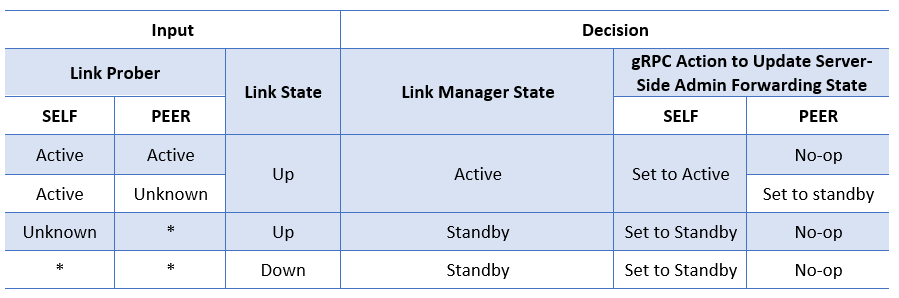
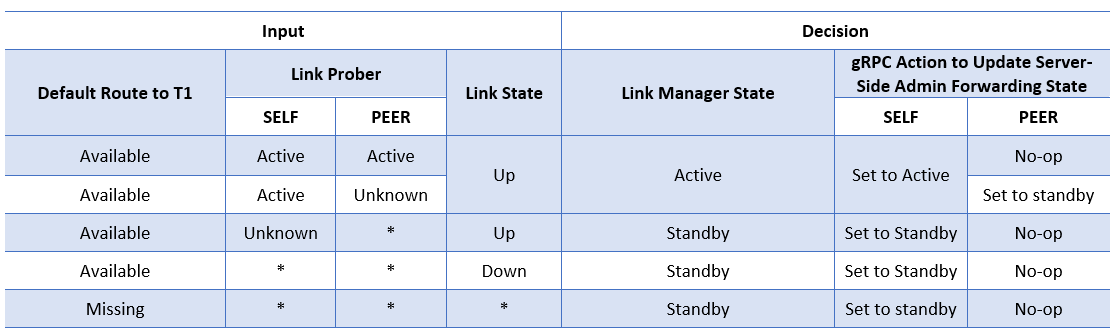
updates: add IPinIP tunnel; add DB changes; add active-standby comparison; re-add default route in decision table; add content table; add flow diagrams.

diff --git a/doc/dualtor/active_active_hld.md b/doc/dualtor/active_active_hld.md
@@ -11,23 +11,41 @@ Active-active dual ToR link manager is an evolution of active-standby dual ToR l
 ## Scope 
 This document provides the high level design of SONiC dual toR solution, supporting active-active setup. 
 
-## Server requirements
-For active-active setup, some complexity is transferred from smart y-cable to server side. Each server will have a Network Interface Card (NIC) connected to 2 x 100Gbps uplinks. These uplinks will be connected to 2 different ToRs with Direct Attach Copper (DAC) Cable. No Y-cable is needed any more.
+## Content
+[1 Cluster Topology](#active_active_hld.md#1-cluster-topology)  
 
-For active-active setup, the requirements for server side are:
-1. Server NIC is responsible to deliver southbound (tier 0 device to server) traffic from either uplinks to applications running on server host.
-   * ToRs are presenting same IP, same MAC to server on both links.
-1. Server NIC is responsible to dispense northbound (server to tier 0) traffic between two active links: at IO stream (5 tuples) level. Each stream will be dispatched to one of the 2 uplinks until link state changes. 
-1. Server should provide support for ToR to control traffic forwarding, and follow this control when dispensing traffic. 
-    * gRPC is introduced for this requirement. 
-    * Each ToR will have a well-known IP. Server NIC should dispatch gRPC replies towards these IPs to the corresponding uplinks.
-1. Server should replicate the northbound traffic to both ToRs:
-    * Specified ICMP replies (for probing link health status)
-    * ARP propagation
-    * Neighbor advertisements
+[2 Requrement Overview](#2-requrement-overview)  
+  - [2.1 Server Requirements](#21-server-requirements)
+  - [2.2 SONiC Requirements](#22-sonic-requirements)  
 
+[3 SONiC ToR Controlled Solution](#3-sonic-tor-controlled-solution)  
+  - [3.1 IP Routing](#31-ip-routing)
+    - [3.1.1 Normal Scenario](#311-normal-scenario)
+    - [3.1.2 Server Uplink Issue](#312-server-uplink-issue)
+    - [3.1.3 ToR Failure](#313-tor-failure)
+    - [3.1.4 Comparison to Active-Standby ](#314-comparison-to-active-standby)
+  - [3.2 DB Schema Changes](#32-db-schema-changes)
+    - [3.2.1 Config DB](#321-config-db)
+    - [3.2.2 App DB](#322-app-db)
+    - [3.2.3 State DB](#323-state-db)
+  - [3.3 Linkmgrd](#33-linkmgrd)
+    - [3.3.1 Link Prober](#331-link-prober)
+    - [3.3.2 Link State](#332-link-state)
+    - [3.3.3 Admin Forwarding State](#333-admin-forwarding-state)
+    - [3.3.4 Acitve-Active State Machine](#334-acitve-active-state-machine)
+    - [3.3.5 Default gateway to T1](#335-default-gateway-to-t1)
+    - [3.3.6 Incremental Featrues](#336-incremental-featrues)
+  - [3.4 Orchagent](#34-orchagent)
+    - [3.4.1 IPinIP tunnel](#341-ipinip-tunnel)
+    - [3.4.2 Flow Diagram and Orch Components](#342-flow-diagram-and-orch-components)
+  - [3.5 Transceiver Daemon](#35-transceiver-daemon)
+    - [3.5.1 Cable Control through gRPC](#351-cable-control-through-grpc)
+  - [3.6 State Transition Flow](#36-state-transition-flow)
+  - [3.7 Command Line](#37-command-line)
 
-## Cluster Topology 
+[4 Warm Reboot Support](#4-warm-reboot-support)
+
+## 1 Cluster Topology 
 There are a certain number of racks in a row, each rack will have 2 ToRs, and each row will have 8 Tier One (T1s) network devices. Each server will have a NIC connected to 2 ToRs with 100 Gbps DAC cables. 
 
 In this design:
@@ -37,14 +55,77 @@ In this design:
 
 ![image info](./image/cluster_topology.png)
 
-### Bandwidth 
+__Bandwidth__ 
 Each ToR will have single port-channel to each T1. The port-channel will have 2 members of 100Gbps. Therefore, each T0 will have total of 8\*2\*100 Gbps = 1.6 Tbps to all T1s.   
 
 T1s will have 8 uplinks to T2s. Therefore, total T1s uplink will be 64. Total uplink bandwidth is 6.4Tbps.
 
+## 2 Requrement Overview
+### 2.1 Server Requirements
+ Each server will have a Network Interface Card (NIC) connected to 2 x 100Gbps uplinks. These uplinks will be connected to 2 different ToRs with Direct Attach Copper (DAC) Cable. No Y-cable is needed any more. Hence, some complexity is transferred from smart y-cable to server side.
 
-## SONiC ToR Controlled Solution 
-### Normal Scenario  
+For active-active setup, the requirements for server side are:
+1. Server NIC is responsible to deliver southbound (tier 0 device to server) traffic from either uplinks to applications running on server host.
+   * ToRs are presenting same IP, same MAC to server on both links.
+1. Server NIC is responsible to dispense northbound (server to tier 0) traffic between two active links: at IO stream (5 tuples) level. Each stream will be dispatched to one of the 2 uplinks until link state changes. 
+1. Server should provide support for ToR to control traffic forwarding, and follow this control when dispensing traffic. 
+    * gRPC is introduced for this requirement. 
+    * Each ToR will have a well-known IP. Server NIC should dispatch gRPC replies towards these IPs to the corresponding uplinks.
+1. Server should replicate these northbound traffic to both ToRs:
+    * Specified ICMP replies (for probing link health status)
+    * ARP propagation
+    * IPv6 router solicitation, neighbor solicitation and neighbor advertisements
+    
+    Check pseudo code below for details of IO scheduling contract. 
+    ```
+    // gRPC Response
+    if (ethertype == IPv4 && DestIP == Loopback3_Port0_IPv4) or (ethertype == IPv6 && DestIP == Loopback3_Port0_IPv6) 
+    { 
+      if (Port 0.LinkState == Up)
+        Send to Port 0
+      else
+        Drop
+    }
+    else if (ethertype == IPv4 && DestIP == Loopback3_Port1_IPv4) or (ethertype == IPv6 && DestIP == Loopback3_Port1_IPv6)  
+    { 
+      if (Port 1.LinkState == Up)
+        Send to Port 1
+      else
+        Drop
+    } 
+    
+    // ARP
+    else if (ethertype == ARP)
+      Duplicate to both ports
+    
+    // ICMP Heartbeat Probing 
+    else if ((ethertype == IPv4 && DestIP == Loopback2_IPv4 && IPv4.Protocol == ICMP) or (ethertype == IPv6 && DestIP == Loopback2_IPv6 && IPv6.Protocol == ICMPv6))
+      Duplicate to all active ports
+    
+    // IPv6 router solicitation, neighbor solicitation and neighbor advertisements
+    else if (ethertype == IPv6 && IPv6.Protocol == ICMPv6 && ICMPv6.Type in [133, 135, 136])
+      Duplicate to both ports
+    else if (gRPC status == "Port 0 disabled" || Port0.LinkState == Down)
+      Send to Port 1
+    else if (gRPC status == "Port 1 disabled" || Port1.LinkState == Down)
+      Send to Port 0
+    
+    // Other Traffic
+    else
+      Send packet on either port
+    ```
+
+### 2.2 SONiC Requirements
+1. Introduce active-active mode into MUX state machine. 
+1. Probe to determine if link is healthy or not. 
+1. Signal NIC if ToR is switching active or standby.
+1. Rescue when peer ToR failure occures.
+1. Unblock traffic when cable control channel is unreachable.  
+
+## 3 SONiC ToR Controlled Solution 
+
+### 3.1 IP Routing
+#### 3.1.1 Normal Scenario  
 Both T0s are up and functioning and both the server NIC connections are up and functioning.
 * Control Plane  
   UT0 and LT0 will advertise same VLAN  (IPv4 and IPv6) to upstream T1s. Each T1 will see there are 2 available next hops for the VLAN. T1s advertise to T2 as normal.
@@ -61,7 +142,7 @@ Both T0s are up and functioning and both the server NIC connections are up and f
     * NIC determines which link to use and sends all the packet on a flow using the same link.
     * T0 sends the traffic to destination server if T0 has learnt the MAC address of the destination server.
 
-### Server Uplink Issue  
+#### 3.1.2 Server Uplink Issue  
 Both T0s are up and functioning and some servers NIC are only connected to 1 ToR (due to cable issue, or the cable is taken out for maintenance).  
 * Control Plane  
 No change from the normal case. 
@@ -69,7 +150,7 @@ No change from the normal case.
   * Traffic to the server  
     * Traffic lands on any of the T1 by ECMP from T2s.
     * T1 forwards traffic to either of the T0s by ECMP.
-    * **If T0 does not have the downlink to the server, T0 will send the traffic to the peer T0 over VxLAN encap via T1s.**  
+    * **If T0 does not have the downlink to the server, T0 will send the traffic to the peer T0 over IPinIP encap via T1s.**  
     * T0 sends the traffic to the server and NIC delivers traffic up the stack. 
   * Traffic from the server to outside the cluster   
     * T0 will signal to NIC which side to use.  
@@ -78,10 +159,10 @@ No change from the normal case.
   * Traffic from the server to within the cluster  
     * T0 will signal to NIC which side to use. 
     * NIC determines which link to use and sends all the packets on a flow using the same link. If Server NIC has only 1 connection up, all traffic will be on this connection
-    * If T0 does not have the downlink to the server, T0 will send the traffic to the peer T0 over VxLAN encap via T1s. 
+    * If T0 does not have the downlink to the server, T0 will send the traffic to the peer T0 over IPinIP encap via T1s. 
     * T0 sends the traffic to the server.
 
-### ToR Failure  
+#### 3.1.3 ToR Failure  
 Only 1 T0s is up and functioning.
 * Control Plane  
 Only 1 T0 will advertise the VLAN (IPv4 and v6) to upstream T1s. 
@@ -97,22 +178,47 @@ Only 1 T0 will advertise the VLAN (IPv4 and v6) to upstream T1s.
     * T0 will signal to NIC which side to use.
     * T0 sends the traffic to the server. 
 
-Highlight on the difference with Active-Standby:   
-1. In active-standby dual ToR design, traffic from server is duplicate to both T0s, standby ToR needs to drop the packets. In active-active, NIC will determine which link to use if both are available. 
-1. In active-ative design, servers have up to 2 links for traffic, T1s and above devices will see more throughput from server. 
+#### 3.1.4 Comparison to Active-Standby  
+Highlight on the common and differences with Active-Standby:   
+  ![comparison](./image/difference.png)  
 
-## Linkmgrd  
+### 3.2 DB Schema Changes
+#### 3.2.1 Config DB 
+* New field in `MUX_CABLE` table to determine cable type
+```
+MUX_CABLE|PORTNAME:
+  cable_type: active-standby|active-active
+```
+#### 3.2.2 App DB 
+* New table to invoke transceiver daemon to query server side forwarding state
+```
+FORWARDING_STATE_COMMAND | PORTNAME:
+  command: probe | set_active_self | set_standby_self | set_standby_peer 
+FORWARDING_STATE_RESPONSE | PORTNAME:
+  response: active | standby | unknown | error 
+  response_peer: active | standby | unknown | error 
+```
+* New table for transceiver daemon to write peer link state to linkmgrd
+```
+PORT_TABLE_PEER|PORTNAME
+  oper_status: up|down
+```
+* New table to invoke transceiver daemon to set peer's server side forwarding state
+```
+HW_FORWARDING_STATE_PEER|PORTNAME
+  state: active|standby|unknown 
+```
+#### 3.2.3 State DB 
+* New table for transceiver daemon to write peer's server side forwarding state to linkmgrd
+```
+HW_MUX_CABLE_TABLE_PEER| PORTNAME
+ state: active |standby|unknown
+```
+
+### 3.3 Linkmgrd  
 Linkmgrd will provide the determination of a ToR / link's readiness for use. 
 
-### Requirement
-1. Introduce active-active mode into MUX state machine. 
-1. Probe to determine if link is healthy or not. 
-1. Signal NIC if ToR is switching active or standby.
-1. Rescue when peer ToR failure occures.
-1. Unblock traffic when cable control channel is unreachable.  
-
-### Solution 
-* Link Prober   
+#### 3.3.1 Link Prober   
   Linkmgrd will keep the link prober design from active-standby mode for monitoring link health status. Link prober will send ICMP packets and listen to ICMP response packets. ICMP packets will contain payload information about the ToR. ICMP replies will be duplicated to both ToRs from the server, hence a ToR can monitor the health status of its peer ToR as well.  
 
   Link Prober will report 4 possible states:  
@@ -121,6 +227,8 @@ Linkmgrd will provide the determination of a ToR / link's readiness for use.
   * LinkProberPeerUnknown: It indicates that LinkMgr did not receive ICMP replies containing ID of the peer ToR. Hence, there is a chance that peer ToR’s link is currently down. 
   * LinkProberPeerAcitve: It indicates that LinkMgr receives ICMP replies containing ID of the peer ToR, or in other words, peer ToR’s links appear to be active.  
 
+  By default, the heartbeat probing interval is 100 ms. It takes 3 lost of link prober packets, to determine link is unhealthy. Server issue can also cause link prober packet loss, but ToR won't distinguish it from link issue. 
+
   __ICMP Probing Format__  
   The source MAC will be ToR's SVI mac address. Ethernet destination will be the well-known MAC address. Source IP will be ToR's Loopback IP, destination IP will be SoC's IP address, which will be introduced as a field in minigraph.   
   ![icmp_format](./image/icmp_format.png)  
@@ -128,13 +236,13 @@ Linkmgrd will provide the determination of a ToR / link's readiness for use.
   Linkmgrd also adapt TLV (Type-Length-Value) as the encoding schema in payload for additional information elements, including cookie, version, ToR GUID etc.  
    ![icmp_payload](./image/icmp_payload.png)  
 
-* Link State  
+#### 3.3.2 Link State  
   When link is down, linkmgrd will receive notification from SWSS based on kernel message from netlink. This notification will be used to determine if ToR is healthy. 
 
-* Admin Forwarding State   
+#### 3.3.3 Admin Forwarding State   
   ToRs will signal NIC if the link is active / standby, we will call this active / standby state as admin forwarding state. It's up to NIC to determine which link to use if both are active, but it should never choose to use a standby link. This logic provides ToR more control over traffic forwarding.  
   
-* Acitve-Active State Machine  
+#### 3.3.4 Acitve-Active State Machine  
   Active-acitve state transition logics are simplified compared to active-standby. In active-standby, linkmgrd makes mux toggle decisions based on y-cable direction, while for active-active, two links are more independent. Linkmgrd will only make state transition decisions based on healthy indicators. 
 
   To be more specific, if link prober indicates active AND link state appears to be up, linkmgrd should determine link's forwarding state as active, otherwise, it should be standby.
@@ -147,8 +255,45 @@ Linkmgrd will provide the determination of a ToR / link's readiness for use.
   When control channel is unreachable, ToR won't block the traffic forwarding, but it will periodically check gRPC server's healthiness. It will make sure server side's admin forwarding state aligns with linkmgrd's decision.
   ![grpc_failure](./image/gRPC_failure.png) 
 
-* Cable Control through gRPC  
-  In active-active design, we will use gRPC to do cable control and signal NIC if ToRs is up active. SoC will run a gRPC server. Linkmgrd will determine server side forwarding state based on link prober status and link state. Then linkmgrd can invoke transceiver daemon to update NIC if ToRs are active through gRPC calls. 
+#### 3.3.5 Default gateway to T1  
+  If default gateway to T1 is missing, dual ToR system can suffer from northbound packet loss, hence linkmgrd also monitors defaul route state. If default route is missing, linkmgrd will stop sending ICMP probing request and fake an unhealthy status. This functionality can be disabled as well, the details is included in [default_route](https://github.com/Azure/sonic-linkmgrd/blob/master/doc/default_route.md).
+
+  To summarize the state transition decision we talk about, and the corresponding gRPC action to take, we have this decision table below: 
+   ![icmp_payload](./image/decision_table.png) 
+
+#### 3.3.6 Incremental Featrues   
+
+* Link Prober Packet Loss Statics  
+  Link prober will by default send heartbeat packet every 100 ms, the packet loss statics can be a good measurement of system healthiness. An incremental feature is to collect the packet loss counts, start time and end time. The collected data is stored and updated in state db. User can check and reset through CLI. 
+ 
+* Supoort for Detachment  
+  User can config linkmgrd to a certain mode, so it won't switch to active / standby based on health indicators. User can also config linkmgrd to a mode, so it won't modify peer's forwarding state. This support will be useful for maintenance, upgrade and testing scenarios. 
+
+### 3.4 Orchagent 
+#### 3.4.1 IPinIP tunnel
+Orchagent will create tunnel at initialization and add / remove routes to forward traffic to peer ToR via this tunnel when linkmgrd switchs state to standby / active. 
+
+Check below for an example of config DB entry and tunnel utilization when LT0's link is having issue. 
+  ![tunnel](./image/tunnel.png) 
+
+#### 3.4.2 Flow Diagram and Orch Components
+Major components of Orchagent for this IPinIP tunnel are MuxCfgOrch, TunnelOrch, MuxOrch. 
+  ![tunnel](./image/orchagent.png)
+
+1. MuxCfgOrch  
+MuxCfgOrch listens to config DB entries to populate the port to server IP mapping to MuxOrch. 
+
+1. TunnelOrch  
+TunnelOrch will subscribe to `MUX_TUNNEL` table and create tunnel, tunnel termination, and decap entry. This tunnel object would be created when initializing. This tunnel object would be used as nexthop object by MuxOrch for programming route via SAI_NEXT_HOP_TYPE_TUNNEL_ENCAP. 
+
+1. MuxOrch   
+MuxOrch will listen to state changes from linkmgrd and does the following at a high-level:
+    * Enable / disable neighbor entry.   
+    * Add / remove tunnel routes.
+
+### 3.5 Transceiver Daemon
+#### 3.5.1 Cable Control through gRPC  
+  In active-active design, we will use gRPC to do cable control and signal NIC if ToRs is up active. SoC will run a gRPC server. Linkmgrd will determine server side forwarding state based on link prober status and link state. Then linkmgrd can invoke transceiver daemon to update NIC wether ToRs are active or not through gRPC calls. 
   
   Current defined gRPC services between SoC and ToRs related with linkmgrd cable controlling:  
   * DualToRActive
@@ -158,19 +303,14 @@ Linkmgrd will provide the determination of a ToR / link's readiness for use.
   * GracefulRestart
       1. Shutdown / restart notification from SoC to ToR.
 
-  To summarize the state transition decision we talk about, and the corresponding gRPC action to take, we have this decision table below: 
-   ![icmp_payload](./image/decision_table.png) 
+### 3.6 State Transition Flow
+The following UML sequence illustrates the state transtion when linkmgrd state moves to active. The flow will be similar for moving to standby. 
 
-### Incremental Featrues   
-* Default gateway to T1  
-  If default gateway to T1 is missing, dual ToR system can suffer from northbound packet loss, hence linkmgrd also monitors defaul route state. If default route is missing, linkmgrd will stop sending ICMP probing request and fake an unhealthy status. This functionality can be disabled as well, the details is included in [default_route](https://github.com/Azure/sonic-linkmgrd/blob/master/doc/default_route.md).
+![state transition flow](./image/state_transition_flow.png)
 
-* Link Prober Packet Loss Statics
-  Link prober will by default send heartbeat packet every 100 ms, the packet loss statics can be a good system healthiness measurement. An incremental feature is to collect the packet loss counts, start time and end time. The collected data is stored and updated in state db. User can check and reset through CLI. 
- 
-* Supoort for Detachment
-  User can config linkmgrd to a certain mode, so it won't switch to active / standby based on health indicators. User can also config linkmgrd to a mode, so it won't modify peer's forwarding state. This support will be useful for maintenance, upgrade and testing scenarios. 
+### 3.7 Command Line  
+TBD 
 
-### Command Line 
+## 4 Warm Reboot Support
 TBD
 
